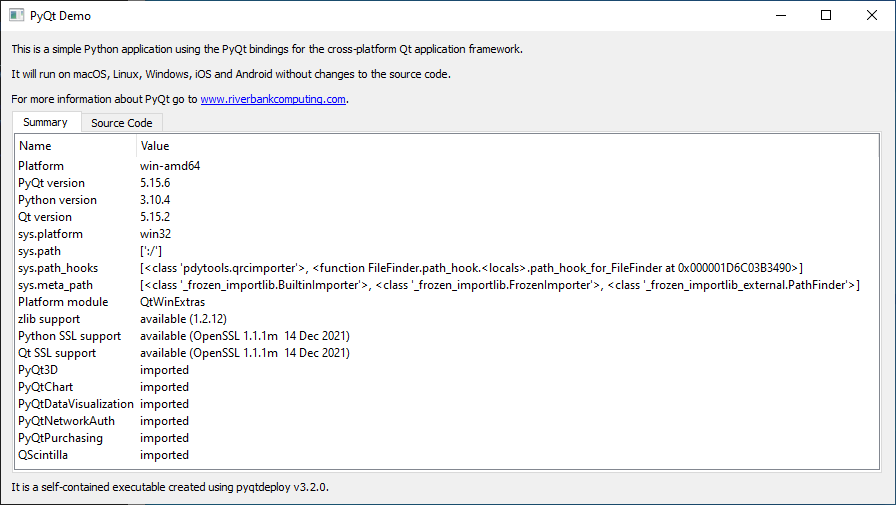
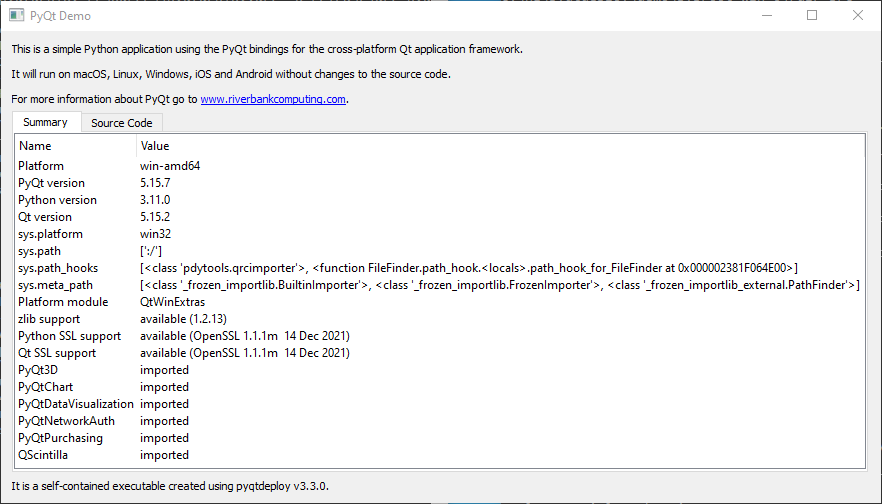
Updated the demo docs for Windows.

diff --git a/doc/demo.rst b/doc/demo.rst
@@ -153,9 +153,9 @@ Windows
 .. image:: /images/pyqt-demo-win-64.png
     :align: center
 
-**Host platform used:** Windows 10 Pro (21H1)
+**Host platform used:** Windows 10 Pro (22H2)
 
-**Development tools used:** Visual Studio Build Tools 2019 (v16.7.2)
+**Development tools used:** Visual Studio Build Tools 2019 (v16.11.14)
 
 **Python SSL support implemented:** statically linked OpenSSL.
 
